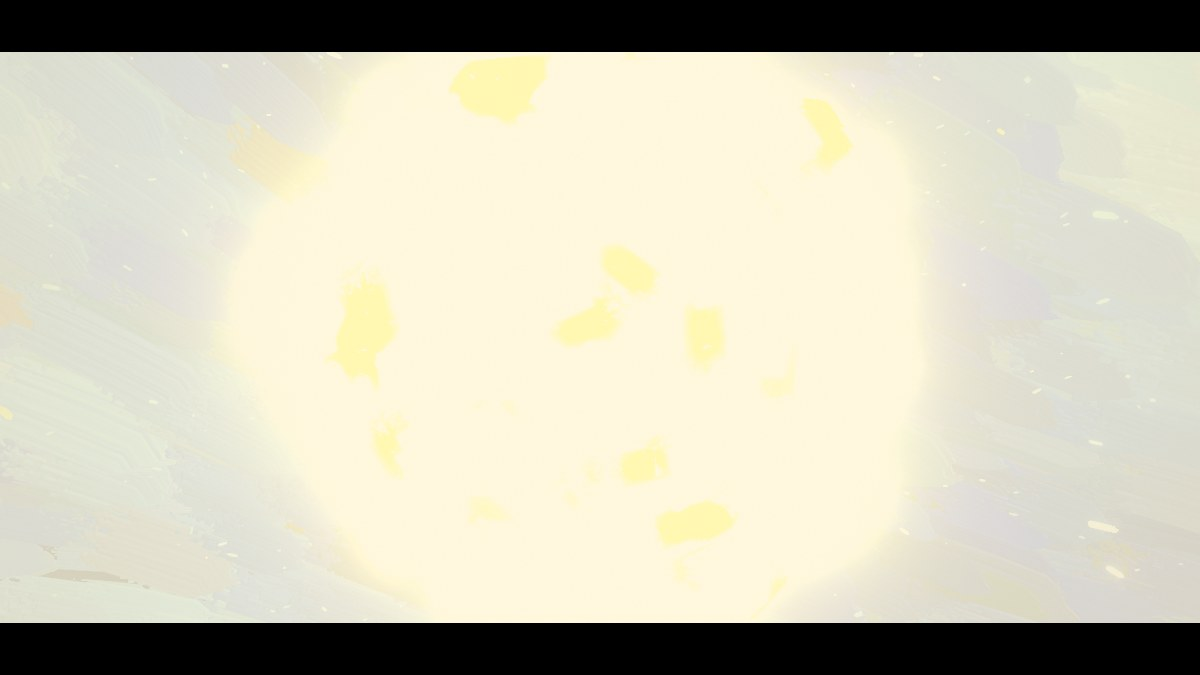
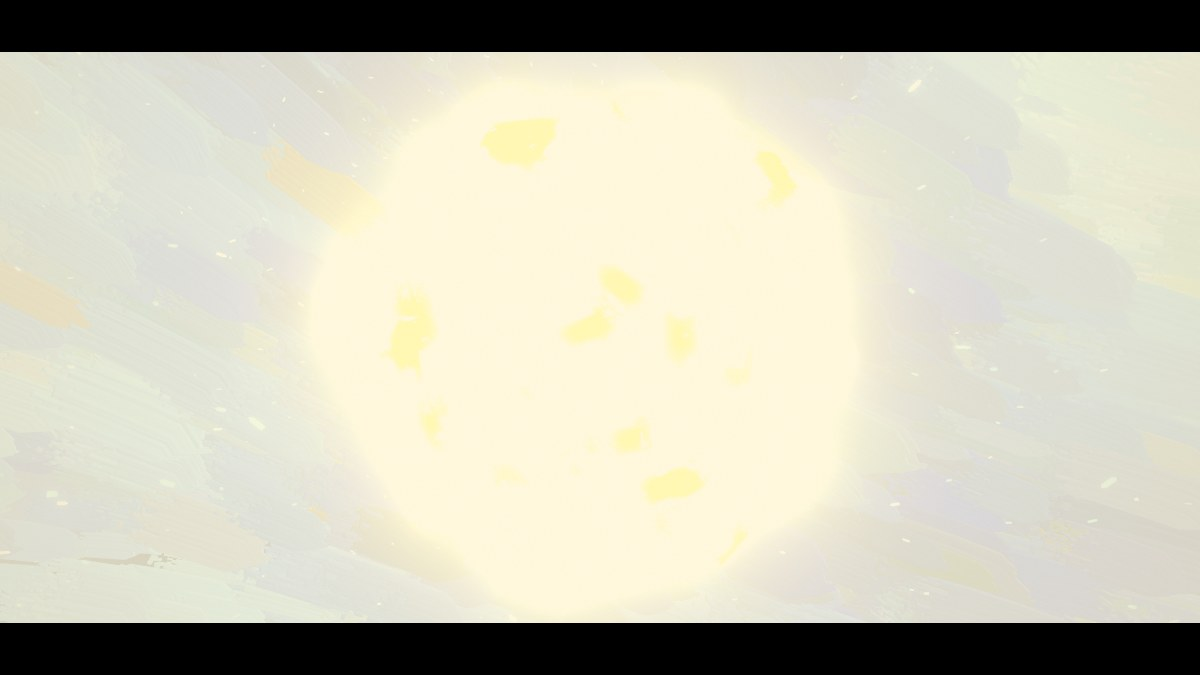
E2.1: the fall's dark, the core alone -- the eye kept up on the hills and his sky down the fall, and the body at the rings' pace to the core with the light rising as the last ring goes

diff --git a/src/film.js b/src/film.js
@@ -105,7 +105,11 @@ export function script(E, plot) {
     // IV. The fall, and the water: down over the roofs to the river, the eye on the far bank and the sky over it,
     // and along the river low over the stars in it to the moon's
     { name: 'the fall', p: [-16, 48, -206], v: 8, look: at([-50, 70, -430]), time: 0.8, turn: [0, 0.7] },
-    { p: [-33, 14, -290], v: 16, look: ahead(60, 5) },
+    // at the foot of the fall the way ahead is down, to the water, and the eye on it looked eleven degrees down into
+    // the far bank for two seconds -- the ground there lies turned to the knoll, and from twenty metres over the river
+    // it is dark. So it stays up, the horizon on the lower third, on the hills and his sky over the far bank; it
+    // comes down to the water only as the body does, and leads the body round into the river's turn (E2.1)
+    { p: [-33, 14, -290], v: 16, look: ahead(90, 6, true) },
     { name: 'the river', p: [-40, 1.3, -333], v: 18, look: ahead(80, 1), title: { id: 691, delay: 1.5, dur: 8.5 }, grade: { warm: -0.3, sat: 0.05 } },
     { p: [100, 1.2, -349], v: 20, look: ahead(90, 3), grade: { warm: -0.3, sat: 0.05 } },
     { p: [255, 1.2, -369], v: 20, look: at([411, -1, -357]), grade: { warm: -0.2, sat: 0.05 } },
@@ -116,11 +120,14 @@ export function script(E, plot) {
     { p: glide(470), v: 58, look: swirlEye, time: 2, grade: { bloom: 0.2 } },
     { name: 'the morning star', p: star.at(760), v: 60, look: at(star.C), time: 2.4, turn: [0.15, 1], title: { id: 638, delay: 1, dur: 10 }, grade: { bloom: 0.3 } },
     // down the well the lens opens, so that its rings, each wider than the one before it, pass through the frame
-    // and out of it one by one and do not all go out of it at once and leave the core alone in the dark
+    // and out of it one by one and do not all go out of it at once and leave the core alone in the dark. And the
+    // body does not slow for the core: the last ring is out of the frame's corners 190 m short of the blaze, and
+    // coming in at 20 m/s and slowing to 7 the core hung alone in the blue for eight seconds before the light came.
+    // Now it keeps the rings' pace, and the light is rising as the last ring goes out of the corners (E2.1)
     { p: star.at(1000), v: 52, look: at(star.C), fov: 74, time: 2.8, grade: { bloom: 0.35 } },
-    { p: star.at(1220), v: 36, look: at(star.C), fov: 82, time: 3, grade: { bloom: 0.4 } },
-    { p: star.at(1370), v: 20, look: at(star.C), fov: 90, time: 3.2, grade: { bloom: 0.5 } },
-    { name: 'the blaze', p: star.at(1468), v: 7, look: at(star.C), fov: 94, time: 3.2, grade: { bloom: 0.5 } },
+    { p: star.at(1220), v: 44, look: at(star.C), fov: 82, time: 3, grade: { bloom: 0.4 } },
+    { p: star.at(1370), v: 38, look: at(star.C), fov: 90, time: 3.2, grade: { bloom: 0.5 } },
+    { name: 'the blaze', p: star.at(1468), v: 26, look: at(star.C), fov: 94, time: 3.2, grade: { bloom: 0.5 } },
   ];
 }
 
@@ -243,7 +250,7 @@ export class Film {
     let fade = 0, reveal = 1.1;
     if (T < WAKE) { fade = 1 - smoother(T / 3.2); reveal = clamp((T - 0.4) / 6, 0, 1.1); }
     if (T > this.Tb) fade = smoother((T - this.Tb) / BLAZE);
-    const blaze = smoother((T - this.Tb + 2.5) / (BLAZE + 1));
+    const blaze = smoother((T - this.Tb + 3.5) / (BLAZE + 2));   // from a second before the last ring goes
     const grade = {};
     for (const g of GRADE) grade[g] = lerp(A.grade?.[g] || 0, B.grade?.[g] || 0, e);
     grade.exposure += 1.1 * blaze; grade.bloom += 1.8 * blaze;

diff --git a/BUILD.md b/BUILD.md
@@ -2220,3 +2220,49 @@ his dream?
   at 0.3 fps; it lifted without an error, and the film's start after it is one line.
 - **Letter 777** is the opening's caption and, on the first time round, the film's first line too.
 - The frame rate, above.
+
+### E2.1 — The fall's dark, the core alone  *(the author's word: "fix: a dark two-second stretch at the end of the fall toward the river, and the last stretch before the core where the rings have left the frame"; the same day)*
+
+Two of E2's *still visible*, sent back the same day. Both were the film's to fix, not the world's: nothing in
+`src/world.js` or the paint moved, and every place before the morning star is where it was, at the same time.
+
+**The fall's dark.** The place at the foot of the fall, 14 m over the near bank, looked 60 m ahead along the way,
+5° up. The way ahead there is down, to the water, so from 97 to 99.5 s the eye looked 9 to 11° down, into the far
+bank 75 to 115 m off. That ground's paint lies turned to the knoll (E0.1). From twenty metres over the river it is
+dark grey, with a few strokes on it and the river in the bottom of the frame. The place now looks level, 90 m
+ahead and 6° up. All the way down, the eye is between 9° up and level, on the hills 330 to 580 m out or on his
+sky over them, with the horizon on the lower third. The morning star, the star east of it and the moon's halo are
+in the top of the frame, and the eye comes down to the water only as the body does. It turns into the river's bend
+about a second before the body does, and its fastest turn in the fall is 20°/s, for 32.
+
+**The core alone.** The morning star's last ring is 254 m round the well's axis, 1,502 m down it from the knoll's
+eye. It leaves the frame's corners 190 m short of the blaze. The body came in at 36, 20 and 7 m/s over the last
+three places, and the light began to rise 7.5 s before the end. So from 168 to about 176 s the core hung by
+itself in the blue. Two changes in `src/film.js`:
+- The body keeps the rings' pace to the core: 44, 38 and 26 m/s.
+- The light begins a second sooner and rises more slowly: from 3.5 s before the blaze over 7 s, for 2.5 s over 6.
+  It is full at the same moment, 1.5 s before the end.
+
+Now the last ring's strokes are in the corners at 166.8 s with the light already rising (exposure +0.27, bloom
++0.85). At 167.8 s they are gone and the exposure is +0.55. The core, 22° across, grows to 60° as the light takes
+the frame. The film is 174.0 s, 7.7 s shorter, over the same 2,911 m.
+
+**What it measures.**
+
+| what | value |
+|---|---|
+| the fall, 97.5 to 99.5 s | mean light inside the bands 57 to 61 (of 255), for 38 to 42; pixels under 40, 40 to 45%, for 64 to 70% (3° up, tried first: 53 to 54, and half the frame under 40) |
+| the fall, the eye | 9° up to level, for 11° down; fastest turn 20°/s, for 32 |
+| the star, the gap | the light rising as the last ring leaves the corners, for 8 s of the core alone before it |
+| the film | 174.0 s, 2,911 m, 33 places in 15 shots |
+| the audit | unchanged: least room 1.5 m, 4.9 m, 12.6 m; the most 60 m/s, the eye 36°/s (off the spire's tip), bank 7°, pull 25 m/s², 1,393 m out |
+| the hand-over in the rush | an arrow at 38 m/s: no jump; 7.4 m more in the next second, and at rest |
+| frame rate | not measured, as in E2; nothing here draws more |
+
+**Pictures.** `e2-the-fall` (98.5 s) and `e2-the-last-ring` (166.8 s), new. `e2-the-blaze` re-taken at 171.3 s,
+which is as far before the end as E2's 179 s was. All headless, 1200 × 675.
+
+**Still visible.** As E2's, less these two. The far bank and the slopes of the northern hills are still dark from
+the air at night, and at 98 s they are still the lower half of the frame: the eye is turned from them, but they are
+not painted for it. The ground's paint lies turned to the knoll, and wherever the film looks at it from low and
+near, it is sparse.
